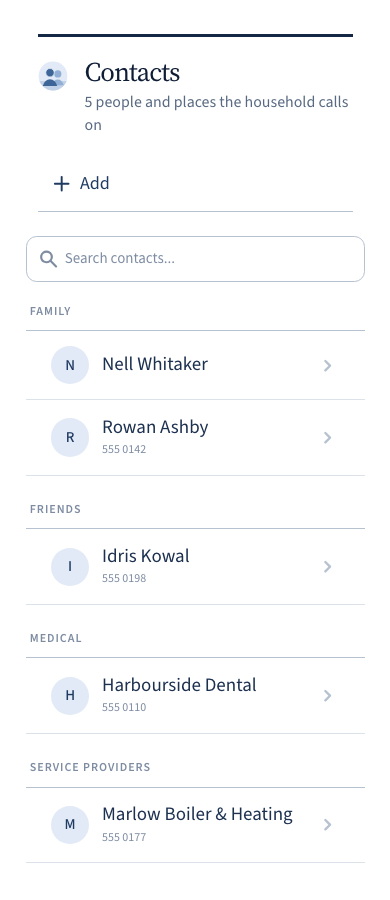
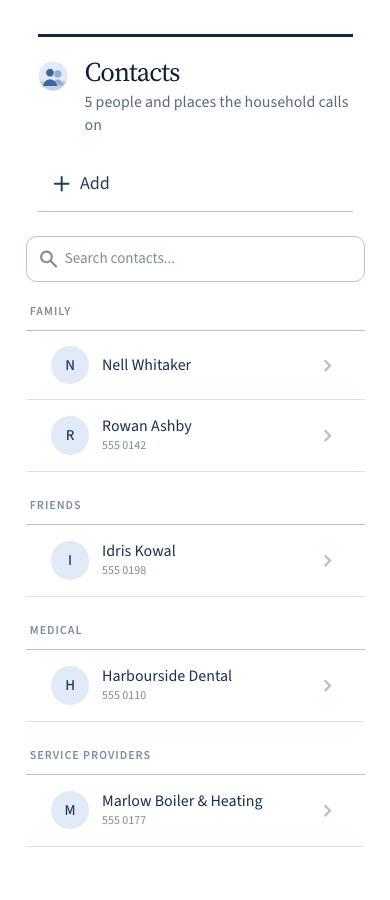
design(parity): entries settle at 16px, Today included
The handoff asked for roughly 19-20px primary content and the parity pass
built it. Seen in the running app it read as too loud, so entries come down to
16px everywhere — Today's own rows as well, so nothing on the app reads
louder than anything else.

Chosen from a four-way comparison at 14 / 16 / 17 / 19px
(output/daybook/type-scale-compare.png).

Down to 16px: Today's rows in both ScheduleItem branches, routine collection
rows, list items, triage rows, plan tasks, inbox rows, and the Notes,
Documents, Contacts, Lists, Discussions, History, House and Routines entries.
Routine steps and per-person meal rows go to 15px; reference folds to 14px.

Goal rows land back on the 17px serif they had before this work, so the
goal-vs-task step survives. Left alone: /week's pool pills at 15px (a 288px
column beside the grid), detail-panel body copy at 15px (body text, not an
entry), and the note composer, which predates both passes.

Every preview in output/daybook/ was re-rendered at the new size, so the
committed evidence matches the code.

Verified: build passes, tsc clean, 6015 tests pass (the one failing file is
connectors/, which has no node_modules here).

Claude-Session: https://claude.ai/code/session_01HPb8SiAeYvQ7ioJu6AAN7P

diff --git a/src/components/schedule/RoutineCollectionRow.tsx b/src/components/schedule/RoutineCollectionRow.tsx
@@ -106,7 +106,7 @@ export function RoutineCollectionRow({ item, onSelect, onSelectStep, onCompleteS
           {open ? <ChevronDown className="w-4 h-4" /> : <ChevronRight className="w-4 h-4" />}
         </button>
         <button onClick={() => setOpen(o => !o)} className="flex-1 flex items-center gap-2 py-1.5 text-left min-w-0">
-          <span className="text-[20px] leading-snug font-medium text-neutral-800 truncate shrink-0 max-w-[50%]">{item.title}</span>
+          <span className="text-[16px] leading-snug font-medium text-neutral-800 truncate shrink-0 max-w-[50%]">{item.title}</span>
           <span className="text-xs text-neutral-400 tabular-nums shrink-0">{p.done}/{p.total}</span>
           {item.completed
             ? <span className="text-xs text-neutral-400 truncate">· done</span>
@@ -210,7 +210,7 @@ export function RoutineCollectionRow({ item, onSelect, onSelectStep, onCompleteS
               <div key={group.stepId}>
                 <div className="flex items-center justify-between gap-2">
                   <span
-                    className={`text-[18px] leading-snug truncate cursor-pointer ${stepDone ? 'text-neutral-400' : 'text-neutral-700'}`}
+                    className={`text-[15px] leading-snug truncate cursor-pointer ${stepDone ? 'text-neutral-400' : 'text-neutral-700'}`}
                     onClick={() => onSelectStep(`routine-${group.stepId}`)}
                   >
                     {group.name}

diff --git a/src/components/meals/plan/SlotCell.tsx b/src/components/meals/plan/SlotCell.tsx
@@ -140,7 +140,7 @@ export function SlotCell({
       {/* Shared row (or a "split by person" placeholder when there's no shared meal). */}
       <div className="grid grid-cols-[80px_1fr_auto] items-start gap-3">
         <div className="text-[10px] font-bold uppercase tracking-[0.18em] text-neutral-400 pt-1">{slotLabel}</div>
-        <div className="font-display text-[19px] leading-snug text-neutral-800">
+        <div className="font-display text-[17px] leading-snug text-neutral-800">
           {entry ? title : <span className="text-[15px] italic text-neutral-400">Just for specific people</span>}
         </div>
         <div className="flex items-center gap-0.5">
@@ -203,7 +203,7 @@ export function SlotCell({
           </span>
           <button
             onClick={() => onChangeRecipe(m.entry)}
-            className="text-left font-display text-[18px] leading-snug text-neutral-700 hover:text-neutral-900"
+            className="text-left font-display text-[16px] leading-snug text-neutral-700 hover:text-neutral-900"
           >
             {m.title}
           </button>

diff --git a/src/components/schedule/ScheduleItem.tsx b/src/components/schedule/ScheduleItem.tsx
@@ -440,7 +440,7 @@ export const ScheduleItem = memo(function ScheduleItem({
 
         {/* Title + context line */}
         <div className="flex-1 min-w-0">
-          <div className={`text-[19px] font-semibold leading-snug line-clamp-2 break-words ${item.completed || item.skipped ? 'line-through text-neutral-400' : 'text-neutral-800'}`}>
+          <div className={`text-[16px] font-semibold leading-snug line-clamp-2 break-words ${item.completed || item.skipped ? 'line-through text-neutral-400' : 'text-neutral-800'}`}>
             {item.title}
           </div>
           {(contextLabel || isFree) && (
@@ -708,7 +708,7 @@ export const ScheduleItem = memo(function ScheduleItem({
             <span
               className={`
                 flex-1 min-w-0
-                text-[20px] leading-snug font-medium line-clamp-2 transition-colors
+                text-[16px] leading-snug font-medium line-clamp-2 transition-colors
                 ${item.completed || item.skipped
                   ? 'line-through text-neutral-400'
                   : item.isWaiting

diff --git a/src/apps/home/HomeOverview.tsx b/src/apps/home/HomeOverview.tsx
@@ -124,7 +124,7 @@ export function HomeOverview() {
               className="block px-3 py-3.5 transition-colors hover:bg-neutral-50"
             >
               <div className="flex items-center justify-between gap-3">
-                <span className="text-[19px] leading-snug text-neutral-800">{a.name}</span>
+                <span className="text-[16px] leading-snug text-neutral-800">{a.name}</span>
                 <span className="shrink-0 text-[13px] text-neutral-500">
                   {(() => {
                     const roomName = rooms.find((r) => r.id === a.spaceId)?.name
@@ -151,7 +151,7 @@ function RoomTile({ room, count }: { room: Space; count: number }) {
         )}
       </div>
       <div className="p-3">
-        <div className="text-[17px] leading-snug text-neutral-800">{room.name}</div>
+        <div className="text-[16px] leading-snug text-neutral-800">{room.name}</div>
         <div className="text-[13px] text-neutral-500">{count} item{count === 1 ? '' : 's'}</div>
       </div>
     </Link>

diff --git a/src/components/list/ListsList.tsx b/src/components/list/ListsList.tsx
@@ -178,7 +178,7 @@ export function ListsList({ lists, loading = false, listsByCategory, onSelectLis
                         {list.icon || (() => { const Icon = CATEGORY_ICONS[list.category]; return <Icon className="w-5 h-5 text-primary-500" /> })()}
                       </div>
                       <div className="flex-1 min-w-0">
-                        <div className="truncate text-[19px] leading-snug text-neutral-800">{list.title}</div>
+                        <div className="truncate text-[16px] leading-snug text-neutral-800">{list.title}</div>
                         <div className="mt-0.5 text-[12px] text-neutral-400">
                           {list.visibility === 'family' && (
                             <span className="inline-flex items-center gap-1 mr-2">

diff --git a/src/components/plan/PlanRail.tsx b/src/components/plan/PlanRail.tsx
@@ -73,7 +73,7 @@ export function PlanRail({ title, subtitle, rows, onOpen, onPullDown, pullLabel,
           {row.isGoal
             ? <Target className="w-3.5 h-3.5 mt-0.5 shrink-0 text-accent-600" />
             : <span className={`mt-1.5 w-1.5 h-1.5 shrink-0 rounded-full ${rowDone ? 'bg-primary-500' : 'bg-neutral-300'}`} />}
-          <span className={`min-w-0 flex-1 text-[15px] leading-snug ${rowDone ? 'line-through text-neutral-400' : 'text-neutral-700'}`}>
+          <span className={`min-w-0 flex-1 text-[14px] leading-snug ${rowDone ? 'line-through text-neutral-400' : 'text-neutral-700'}`}>
             {row.title}
           </span>
           {row.placed && <span className="shrink-0 text-[11px] text-neutral-400">{row.placed.label}</span>}

diff --git a/src/apps/notes/NotesApp.tsx b/src/apps/notes/NotesApp.tsx
@@ -393,7 +393,7 @@ export function NotesApp() {
                         <span className="sr-only">Lives on its task — delete it there. </span>
                       )}
                       <div className="flex items-baseline gap-3">
-                        <h3 className="flex-1 min-w-0 truncate text-[19px] font-display text-neutral-900 group-hover:text-primary-800 transition-colors">
+                        <h3 className="flex-1 min-w-0 truncate text-[16px] font-display text-neutral-900 group-hover:text-primary-800 transition-colors">
                           {headingFor(note)}
                         </h3>
                         <span className="shrink-0 text-[12px] text-neutral-400 tabular-nums">

diff --git a/src/apps/documents/DocumentRow.tsx b/src/apps/documents/DocumentRow.tsx
@@ -137,7 +137,7 @@ export function DocumentRow({ document, onToggleScope, onDelete, onSave }: Props
     <div className="flex items-center gap-3 border-b border-neutral-200 px-4 py-3.5 transition-colors hover:bg-neutral-50">
       <FileText className="w-5 h-5 shrink-0 text-neutral-400" />
       <div className="flex-1 min-w-0">
-        <div className="truncate text-[19px] leading-snug text-neutral-800">{document.label}</div>
+        <div className="truncate text-[16px] leading-snug text-neutral-800">{document.label}</div>
         <div className="mt-0.5 flex items-center gap-2 text-[12px] text-neutral-500">
           <span>{documentKindLabel(document.kind)}</span>
           {note && (

diff --git a/src/components/schedule/TriageRow.tsx b/src/components/schedule/TriageRow.tsx
@@ -139,7 +139,7 @@ export function TriageRow({ task, meta, metaTitle, isNew, offer, verdict, canDel
           </button>
         )}
         <span className="flex-1 min-w-0">
-          <span className={`block text-[19px] leading-snug ${verdict ? 'text-neutral-400' : 'text-neutral-700'} ${verdict === 'completed' ? 'line-through' : ''}`}>
+          <span className={`block text-[16px] leading-snug ${verdict ? 'text-neutral-400' : 'text-neutral-700'} ${verdict === 'completed' ? 'line-through' : ''}`}>
             {isGoal && <Target aria-label="Goal" className="mr-1.5 inline-block w-3.5 h-3.5 -mt-0.5 text-amber-600" />}
             {task.title}
             {isNew && !verdict && (

diff --git a/src/apps/discussions/DiscussionsApp.tsx b/src/apps/discussions/DiscussionsApp.tsx
@@ -68,7 +68,7 @@ export function DiscussionsApp() {
               </span>
               <span className="min-w-0 flex-1">
                 <span className="flex items-baseline gap-2">
-                  <span className={`flex-1 truncate text-[19px] leading-snug ${row.unread ? 'font-semibold text-neutral-900' : 'text-neutral-800'}`}>
+                  <span className={`flex-1 truncate text-[16px] leading-snug ${row.unread ? 'font-semibold text-neutral-900' : 'text-neutral-800'}`}>
                     {row.title}
                   </span>
                   <span className="shrink-0 text-[12px] text-neutral-400">{formatRelativeTime(row.lastAt)}</span>

diff --git a/src/components/settings/SettingsPage.tsx b/src/components/settings/SettingsPage.tsx
@@ -334,7 +334,7 @@ export function SettingsPage({
               <h2 className="mb-2 font-display text-[22px] text-neutral-900">Text Size</h2>
               <div className="flex items-center justify-between border-y border-neutral-200 px-1 py-4">
                 <div>
-                  <p className="text-[19px] leading-snug text-neutral-800">Large text</p>
+                  <p className="text-[16px] leading-snug text-neutral-800">Large text</p>
                   <p className="text-[13px] text-neutral-500">Increase font sizes for easier reading</p>
                 </div>
                 <button

diff --git a/src/components/contact/ContactsList.tsx b/src/components/contact/ContactsList.tsx
@@ -125,7 +125,7 @@ export function ContactsList({ contacts, onSelectContact, onAddContact }: Contac
                         {contact.name.charAt(0).toUpperCase()}
                       </div>
                       <div>
-                        <div className="text-[19px] leading-snug text-neutral-800">{contact.name}</div>
+                        <div className="text-[16px] leading-snug text-neutral-800">{contact.name}</div>
                         {contact.phone && (
                           <div className="text-[12px] text-neutral-400">{contact.phone}</div>
                         )}
